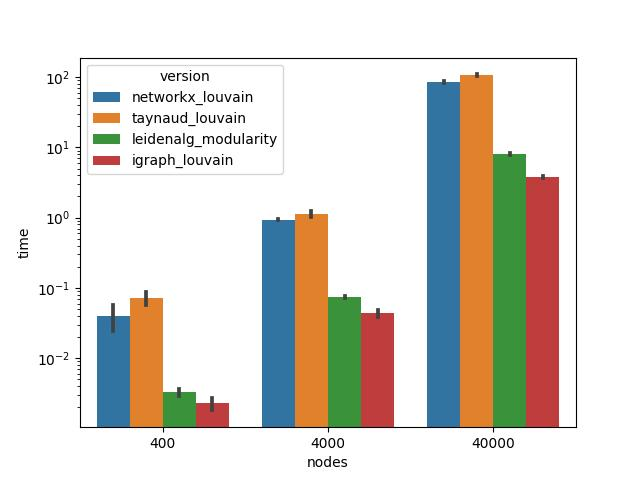
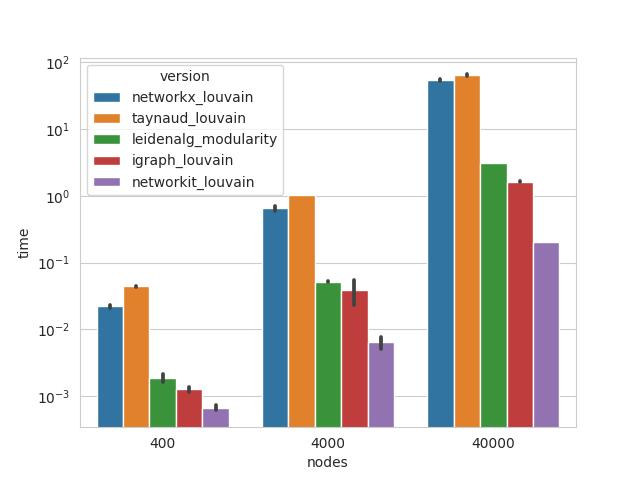
Benchmark networkit

diff --git a/benchmarks/louvain_benchmark/main.py b/benchmarks/louvain_benchmark/main.py
@@ -3,6 +3,7 @@ import timeit
 import igraph as ig
 import pandas as pd
 import networkx as nx
+import networkit as nk
 import leidenalg as la
 import seaborn as sns
 import matplotlib.pyplot as plt
@@ -35,6 +36,13 @@ def leidenalg_modularity(H):
     return partition
 
 
+def networkit_louvain(G):
+    algo = nk.community.PLM(G, refine=True, turbo=False)
+    algo.run()
+    partition = algo.getPartition()
+    return partition
+
+
 def print_igraph_partition(partition):
     for c in partition:
         community = []
@@ -50,10 +58,11 @@ if __name__ == '__main__':
         edges = G.number_of_edges()
         nx.write_gml(G, "planted_partition.gml", stringizer=str)
         H = ig.load("planted_partition.gml")
+        I = nk.readGraph("planted_partition.gml", nk.Format.GML)
 
         for implementation, graph in zip(
-                ["networkx_louvain", "taynaud_louvain", "leidenalg_modularity", "igraph_louvain"],
-                ["G", "G", "H", "H"]
+                ["networkx_louvain", "taynaud_louvain", "leidenalg_modularity", "igraph_louvain", "networkit_louvain"],
+                ["G", "G", "H", "H", "I"]
         ):
             def append_results(number, time_taken):
                 results.append(
